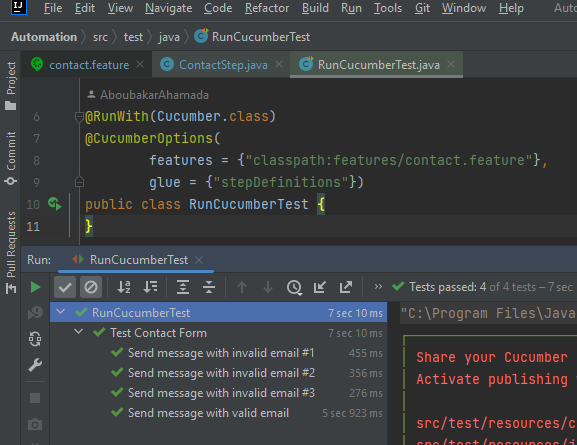
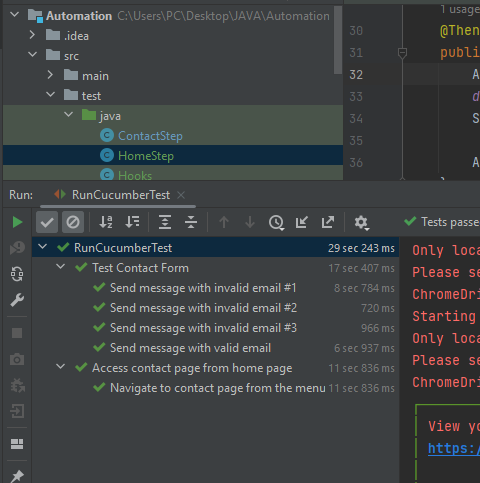
code refactoring: Hooks, RunCucumberTest

diff --git a/src/test/java/stepDefinitions/HomeStep.java b/src/test/java/stepDefinitions/HomeStep.java
@@ -1,0 +1,38 @@
+package stepDefinitions;
+
+import io.cucumber.java.en.Given;
+import io.cucumber.java.en.Then;
+import io.cucumber.java.en.When;
+import org.junit.Assert;
+import org.openqa.selenium.By;
+import org.openqa.selenium.WebDriver;
+import org.openqa.selenium.chrome.ChromeDriver;
+
+import java.util.ArrayList;
+
+public class HomeStep {
+    private final static WebDriver driver = new ChromeDriver();
+
+    private final static String homeUrl = "https://cv-aboubakarahamada.netlify.app";
+
+    private final static String contactUrl = "https://cv-aboubakarahamada.netlify.app/contact/contact.html";
+    private final static By meContacterLink = By.linkText("ME CONTACTER");
+    @Given("user is one home page")
+    public void userIsOneHomePage() {
+        driver.get(homeUrl);
+    }
+
+    @When("user clicks ME CONTACTER link on the menu")
+    public void userClicksMECONTACTERLinkOnTheMenu() {
+        driver.findElement(meContacterLink).click();
+    }
+
+    @Then("user is redirected to contact page")
+    public void userIsRedirectedToContactPage() {
+        ArrayList<String> openTabs = new ArrayList<> (driver.getWindowHandles());
+        driver.switchTo().window(openTabs.get(1));
+        String currentUrl = driver.getCurrentUrl();
+
+        Assert.assertEquals(contactUrl, currentUrl);
+    }
+}

diff --git a/src/test/java/stepDefinitions/ContactStep.java b/src/test/java/stepDefinitions/ContactStep.java
@@ -1,8 +1,5 @@
 package stepDefinitions;
 
-import io.cucumber.java.AfterAll;
-import io.cucumber.java.Before;
-import io.cucumber.java.BeforeAll;
 import io.cucumber.java.en.And;
 import io.cucumber.java.en.Given;
 import io.cucumber.java.en.Then;
@@ -23,22 +20,6 @@ public class ContactStep {
     private final static By subject = By.id("subject");
     private final static By message = By.id("message");
     private final static By sendBtn = By.className("btn");
-    @BeforeAll
-    public static void beforeAll(){
-        System.setProperty("webdriver.chrome.driver", "src/test/resources/lib/chromedriver.exe");
-        driver.get(url);
-    }
-    @Before
-    public static void clearForm(){
-        driver.findElement(name).clear();
-        driver.findElement(email).clear();
-        driver.findElement(subject).clear();
-        driver.findElement(message).clear() ;
-    }
-    @AfterAll
-    public static void afterAll(){
-        driver.quit();
-    }
 
     @Given("user is on the contact page")
     public void userIsOnTheContactPage() {
@@ -92,5 +73,4 @@ public class ContactStep {
         String actualUrl = driver.getCurrentUrl();
         Assert.assertEquals(actualUrl,"https://formsubmit.co/ed1d536d07089e40e71a5279c11fe729");
     }
-
 }

diff --git a/src/test/java/RunCucumberTest.java b/src/test/java/RunCucumberTest.java
@@ -4,8 +4,11 @@ import io.cucumber.junit.CucumberOptions;
 import org.junit.runner.RunWith;
 
 @RunWith(Cucumber.class)
+
 @CucumberOptions(
-        features = {"classpath:features/contact.feature"},
+        features = {"classpath:features"},
         glue = {"stepDefinitions"})
+
+
 public class RunCucumberTest {
 }

diff --git a/src/test/java/Hooks.java b/src/test/java/Hooks.java
@@ -1,0 +1,9 @@
+import io.cucumber.java.Before;
+
+public class Hooks {
+    @Before
+    public void setUp(){
+        System.setProperty("webdriver.chrome.driver", "src/test/resources/driver/chromedriver.exe");
+    }
+
+}
